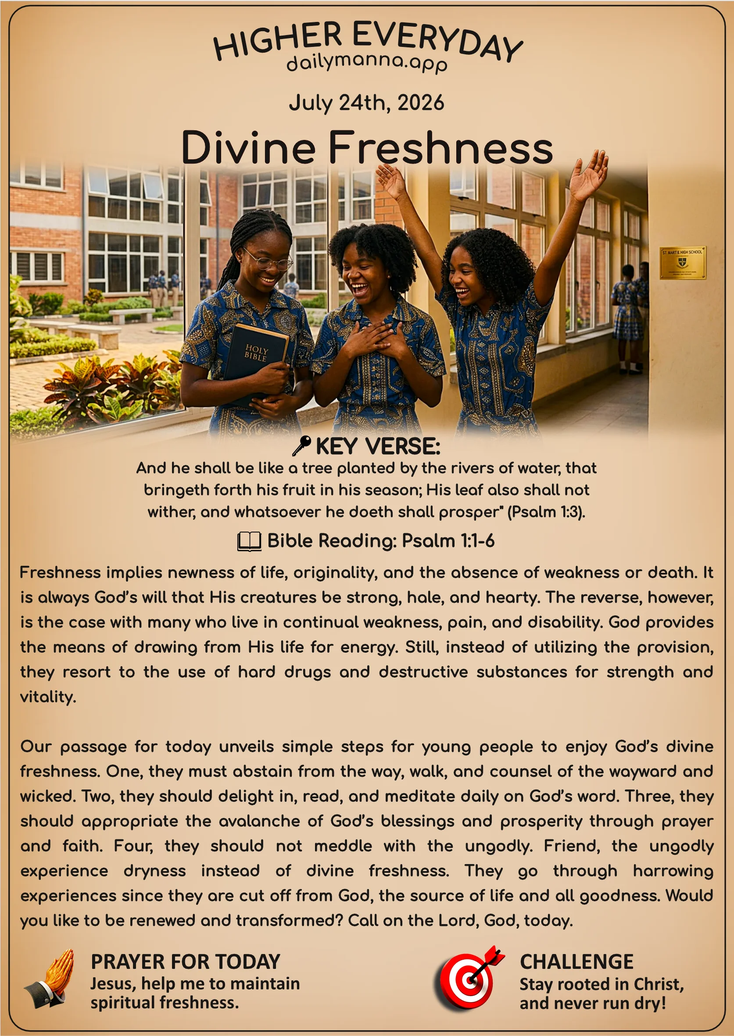
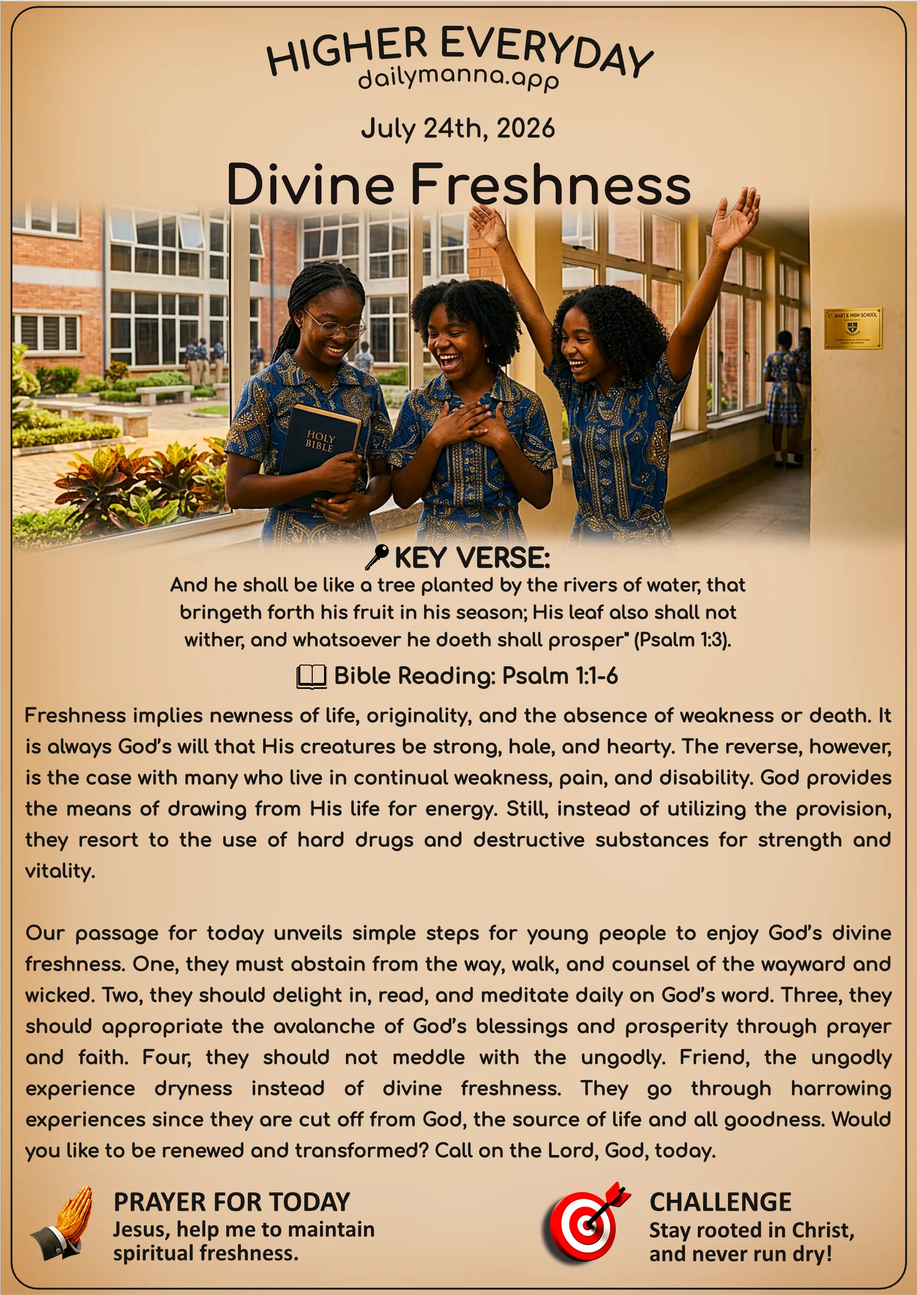
Update
Solve cache showing old image

diff --git a/index.html b/index.html
@@ -498,15 +498,15 @@ h1{
 
     <div class="today-row">
         <div class="today-card" onclick="openLightbox('./today/1.webp')">
-            <img src="./today/1.webp" alt="Today's Daily Manna" loading="lazy">
+            <img class="update-image" src="./today/1.webp" alt="Today's Daily Manna" loading="lazy">
             <span>Daily Manna</span>
         </div>
         <div class="today-card" onclick="openLightbox('./today/2.webp')">
-            <img src="./today/2.webp" alt="Today's Higher Everyday" loading="lazy">
+            <img class="update-image" src="./today/2.webp" alt="Today's Higher Everyday" loading="lazy">
             <span>Higher Everyday</span>
         </div>
         <div class="today-card" onclick="openLightbox('./today/3.webp')">
-            <img src="./today/3.webp" alt="Today's Sincere Milk" loading="lazy">
+            <img class="update-image" src="./today/3.webp" alt="Today's Sincere Milk" loading="lazy">
             <span>Sincere Milk</span>
         </div>
     </div>
@@ -576,6 +576,13 @@ let initialPinchDistance = 0;
 let initialPinchScale = 1;
 let lastTapTime = 0;
 let lightboxIsOpen = false;
+
+//update images with versions, force clear cache
+const today = new Date().toISOString().split("T")[0];
+
+document.querySelectorAll(".update-image").forEach(img => {
+    img.src = `${img.src.split("?")[0]}?v=${today}`;
+});
 
 // Swipe Detection Variables
 let touchStartX = 0;
